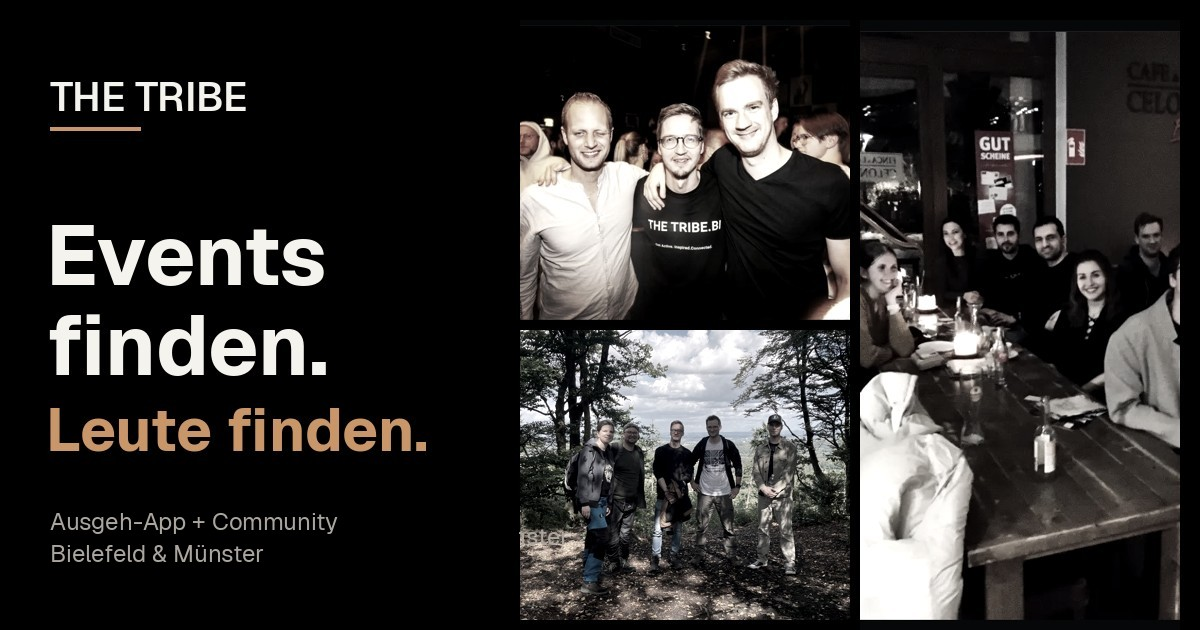
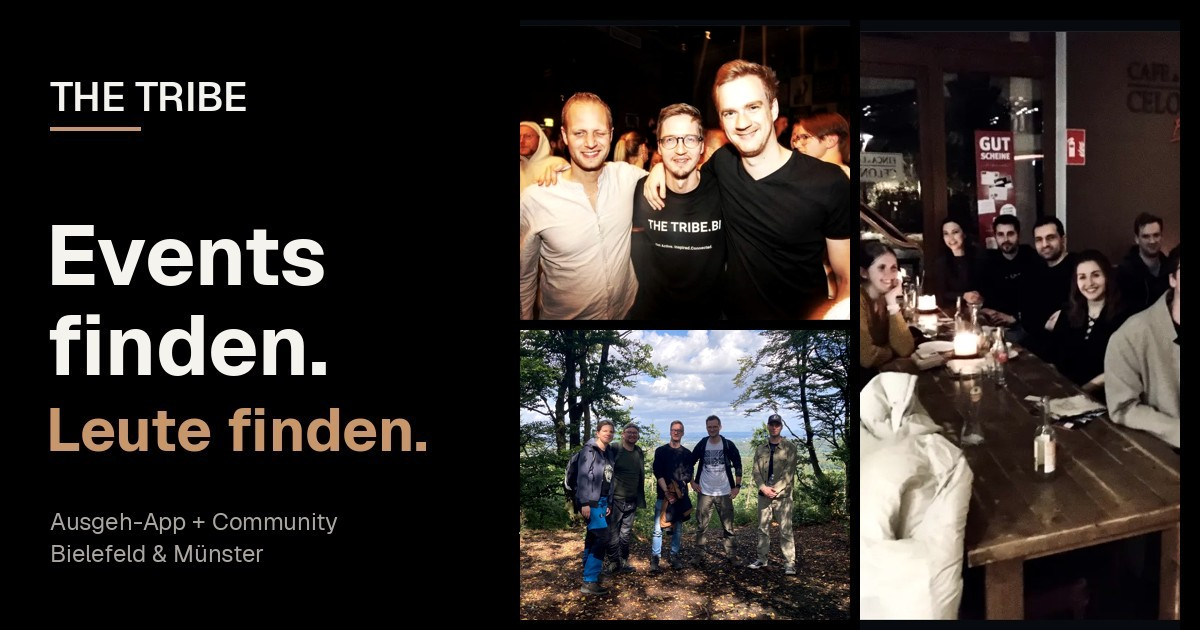
Tribe: Fotos wieder in Farbe (kein durchgehendes Schwarz-Weiß)
Claude-Session: https://claude.ai/code/session_01FVnoX1pbPvd7ME9Aox3kAY

diff --git a/.claude/skills/tribe-app-marketing/SKILL.md b/.claude/skills/tribe-app-marketing/SKILL.md
@@ -68,7 +68,7 @@ Jeder Tribe-Post verweist auf die Community: Caption endet automatisch mit `capt
 Referenz: `tribe_autopilot/coffee_walk/flyer.png`. Gilt für ALLE Tribe-Posts, Reels und Storys.
 - Schwarz (#000) als Fläche, Text weiß (#f5f3ee), einziger Akzent Kupfer #c99669. Kein Neon, kein Lila, kein Amber.
 - Schrift: Geist Bold für Headlines (groß, eng), Oswald (`tribe_autopilot/fonts/Oswald.ttf`) für Versalien-Zeilen wie „GUTE LEUTE.“, Geist Regular für Fließtext. Viel Leerraum.
-- Fotos/Clips entsättigt, kontrastreich (Render macht das über `photo_grade` in der Config automatisch; eigene Reel-Skripte: Sättigung ≈ 0.15–0.6, Kontrast +15 %).
+- Fotos/Clips **in Farbe** (Maik 18.10.: nicht nur Schwarz-Weiß), nur leicht zurückgenommen und kontrastreicher (Render: `photo_grade` Sättigung 0.85; eigene Reel-Skripte ähnlich). Schwarz-Weiß höchstens als einzelnes Stilmittel (z. B. ein Polaroid), nie durchgehend. Schwarz ist die Fläche/Typo, nicht der Fotofilter.
 - **Immer Menschen zuerst** – kein Einstieg mit Produkt, Kaffeemaschine, Logo oder Text-Wand. Tribe ist Community fürs Ausgehen.
 - Ende jedes Reels: Community · Link in Bio.
 
@@ -100,4 +100,4 @@ Dateien: `tribe_autopilot/footage/referenz/250-mitglieder.mp4` (13,6 s) und `wan
 - Rhythmus allgemein: Hook ≤ 1 s, Schnitte im Takt (0,5–0,7 s in der Mitte), Ende 2–3 s stehen. Kurz halten (7–15 s).
 
 ## App-Posts nie nur App (Maik 18.10.)
-App-Vorschau-Bilder, App-Karussells und App-Reels zeigen immer auch echte Community-Fotos (mind. jede 2. Folie bzw. Szene; Titelbild = Menschen, Screenshot als Handy darüber oder daneben). Botschaft: Events finden **und** Leute finden. Link-Vorschau der App (`docs/tribe/og.jpg`) ist entsprechend gebaut.
+Gemeint sind die App-Posts auf Instagram: App-Karussells und App-Reels zeigen immer auch echte Community-Fotos (mind. jede 2. Folie bzw. Szene; Titelbild = Menschen, Screenshot als Handy darüber oder daneben). Botschaft: Events finden **und** Leute finden. Link-Vorschau der App (`docs/tribe/og.jpg`) ist entsprechend gebaut.
